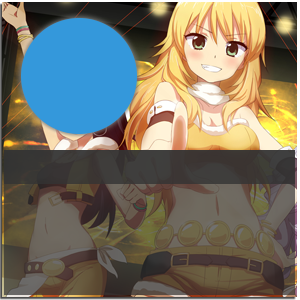
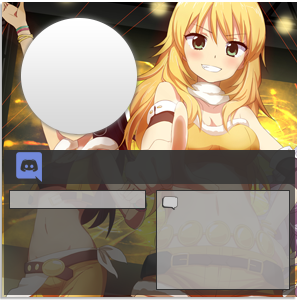
More profile stuff

diff --git a/commands/weather/profile.js b/commands/weather/profile.js
@@ -10,6 +10,9 @@ const Currency = require('../../currency/Currency');
 const config = require('../../settings');
 const version = require('../../package').version;
 
+const canvas = new Canvas(300, 300);
+const ctx = canvas.getContext('2d');
+
 module.exports = class ProfileCommand extends Command {
 	constructor(client) {
 		super(client, {
@@ -33,8 +36,8 @@ module.exports = class ProfileCommand extends Command {
 
 		Canvas.registerFont(path.join(__dirname, '../../assets/weather/fonts/Roboto.ttf'), { family: 'Roboto' });
 
-		const canvas = new Canvas(300, 300);
-		const ctx = canvas.getContext('2d');
+		const lines = this.wrapText('asdasdiaushdiahsdiahsdihasidhiashdiahsidhasidhigvdhfighdighidrhgduirg', 108 - parseInt(12, 0));
+
 		const base = new Image();
 		const cond = new Image();
 
@@ -49,25 +52,73 @@ module.exports = class ProfileCommand extends Command {
 			ctx.shadowOffsetY = 2;
 			ctx.shadowBlur = 2;
 
-			// Location
+			// Username
 			ctx.font = '20px Roboto';
-			ctx.textAlign = 'center';
 			ctx.fillStyle = '#FFFFFF';
-			ctx.shadowColor = 'rgba(0, 0, 0, 1)';
-			ctx.fillText(user.username, 72, 173);
+			ctx.fillText(user.username, 50, 173);
 
-			// Location
-			ctx.font = '16px Roboto';
+			// EXP
+			ctx.font = '10px Roboto';
+			ctx.textAlign = 'center';
+			ctx.fillStyle = '#333333';
+			ctx.shadowColor = 'rgba(0, 0, 0, 0)';
+			ctx.fillText('EXP: 9999999/9999999', 78, 203);
+
+			// LVL
+			ctx.font = '30px Roboto';
 			ctx.textAlign = 'left';
-			ctx.fillStyle = '#CCCCCC';
-			ctx.shadowColor = 'rgba(0, 0, 0, 1)';
-			ctx.fillText('Currency:', 140, 205);
+			ctx.fillStyle = '#E5E5E5';
+			ctx.shadowColor = 'rgba(0, 0, 0, 0.4)';
+			ctx.fillText('LVL.', 12, 235);
 
-			// Location
-			ctx.font = '16px Roboto';
-			ctx.fillStyle = '#CCCCCC';
-			ctx.shadowColor = 'rgba(0, 0, 0, 1)';
-			ctx.fillText(balance, 210, 205);
+			// LVL Number
+			ctx.font = '30px Roboto';
+			ctx.fillStyle = '#E5E5E5';
+			ctx.fillText('100', 86, 235);
+
+			// Total EXP
+			ctx.font = '14px Roboto';
+			ctx.fillStyle = '#E5E5E5';
+			ctx.shadowColor = 'rgba(0, 0, 0, 0.6)';
+			ctx.fillText('Total EXP', 12, 254);
+
+			// EXP Number
+			ctx.font = '14px Roboto';
+			ctx.fillStyle = '#E5E5E5';
+			ctx.fillText('9999999', 86, 254);
+
+			// Global Rank
+			ctx.font = '14px Roboto';
+			ctx.fillStyle = '#E5E5E5';
+			ctx.fillText('Rank', 12, 270);
+
+			// Global Rank Number
+			ctx.font = '14px Roboto';
+			ctx.fillStyle = '#E5E5E5';
+			ctx.fillText('#1', 86, 270);
+
+			// Currency
+			ctx.font = '14px Roboto';
+			ctx.fillStyle = '#E5E5E5';
+			ctx.fillText('Currency', 12, 287);
+
+			// Currency Number
+			ctx.font = '14px Roboto';
+			ctx.fillStyle = '#E5E5E5';
+			ctx.fillText(balance, 86, 287);
+
+			// Info title
+			ctx.font = '12px Roboto';
+			ctx.fillStyle = '#333333';
+			ctx.shadowColor = 'rgba(0, 0, 0, 0)';
+			ctx.fillText('Info Box', 182, 207);
+
+			// Info
+			ctx.font = '12px Roboto';
+			ctx.fillStyle = '#333333';
+			lines.forEach((line, i) => {
+				ctx.fillText(line, 162, (i + 18.6) * parseInt(12, 0));
+			});
 
 			// Image
 			ctx.beginPath();
@@ -98,5 +149,37 @@ module.exports = class ProfileCommand extends Command {
 		} else {
 			return path.join(__dirname, '../../assets/weather/base/cloud.png');
 		}
+	}
+
+	wrapText(text, maxWidth) {
+		const words = text.split(' ');
+		let lines = [];
+		let line = '';
+		if (ctx.measureText(text).width < maxWidth) {
+			return [text];
+		}
+		while (words.length > 0) {
+			let split = false;
+			while (ctx.measureText(words[0]).width >= maxWidth) {
+				const tmp = words[0];
+				words[0] = tmp.slice(0, -1);
+				if (!split) {
+					split = true;
+					words.splice(1, 0, tmp.slice(-1));
+				} else {
+					words[1] = tmp.slice(-1) + words[1];
+				}
+			}
+			if (ctx.measureText(line + words[0]).width < maxWidth) {
+				line += `${words.shift()} `;
+			} else {
+				lines.push(line);
+				line = '';
+			}
+			if (words.length === 0) {
+				lines.push(line);
+			}
+		}
+		return lines;
 	}
 };
